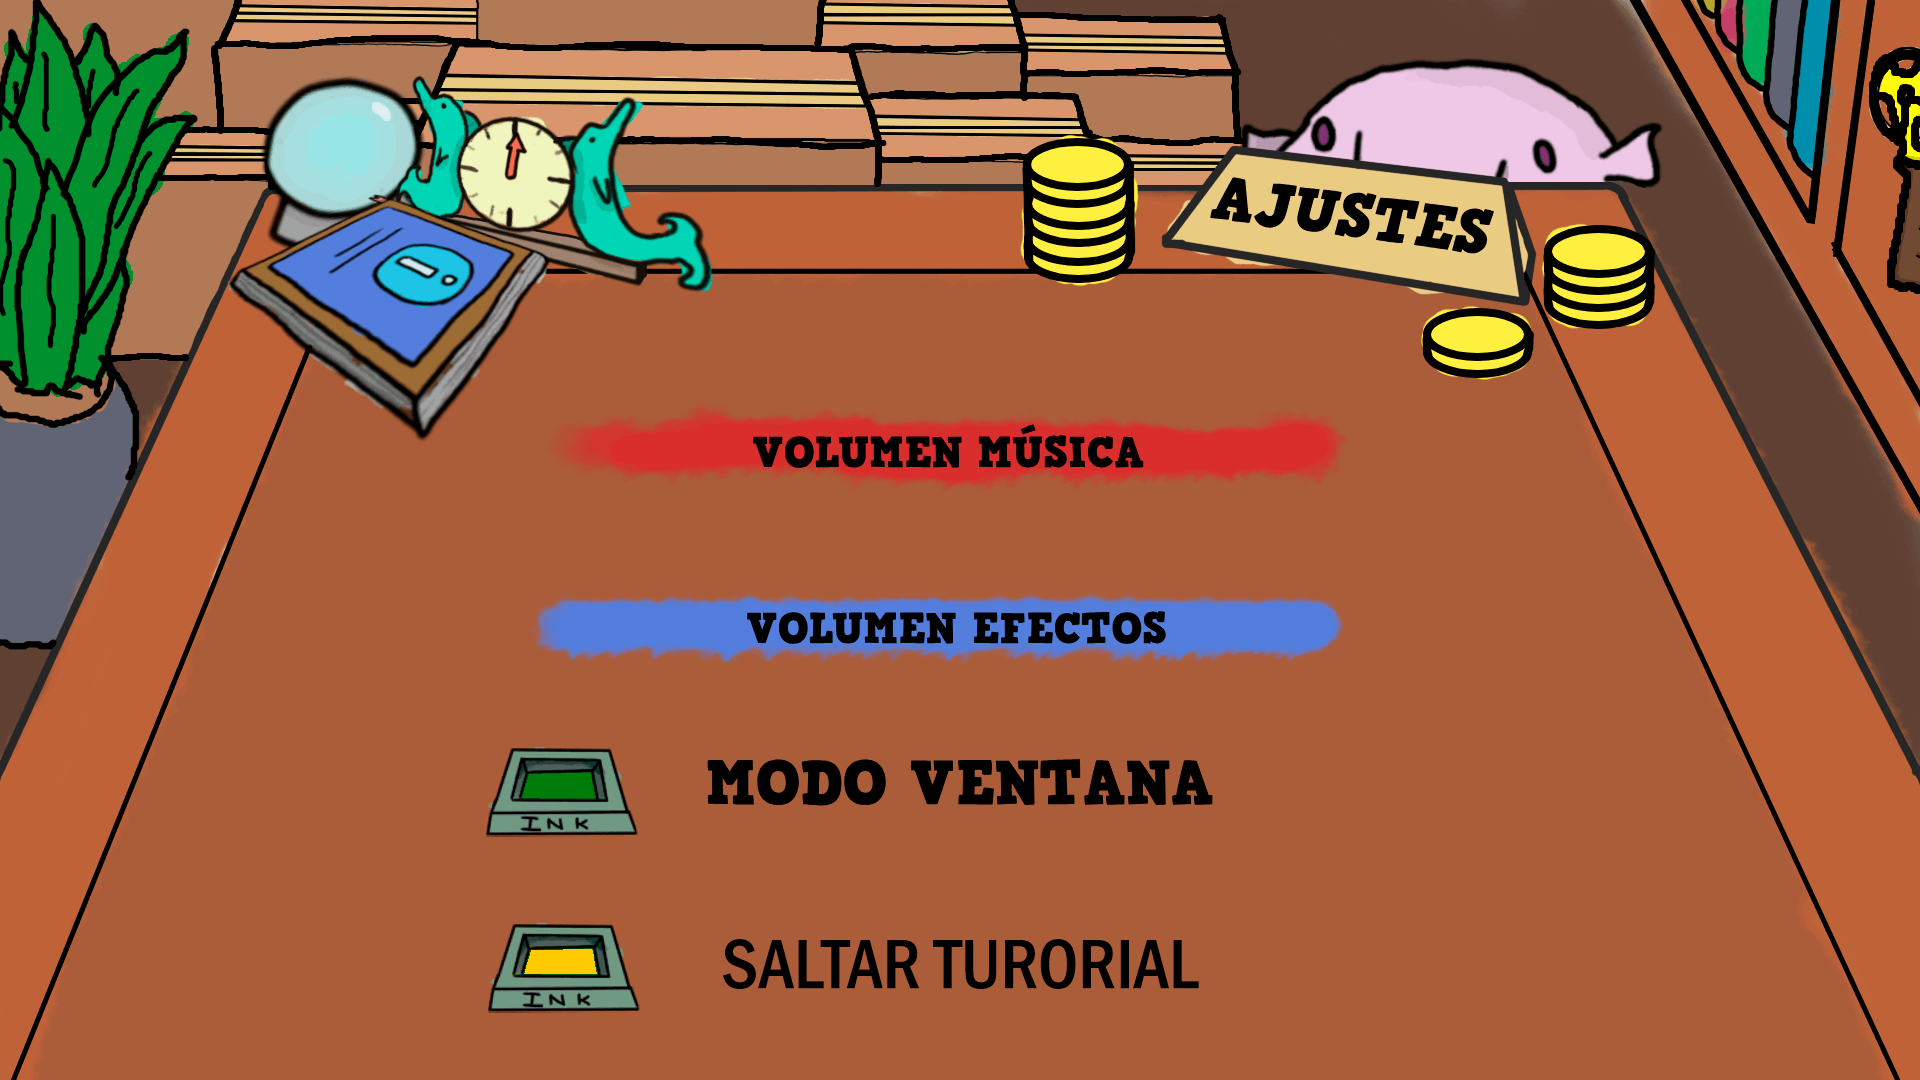
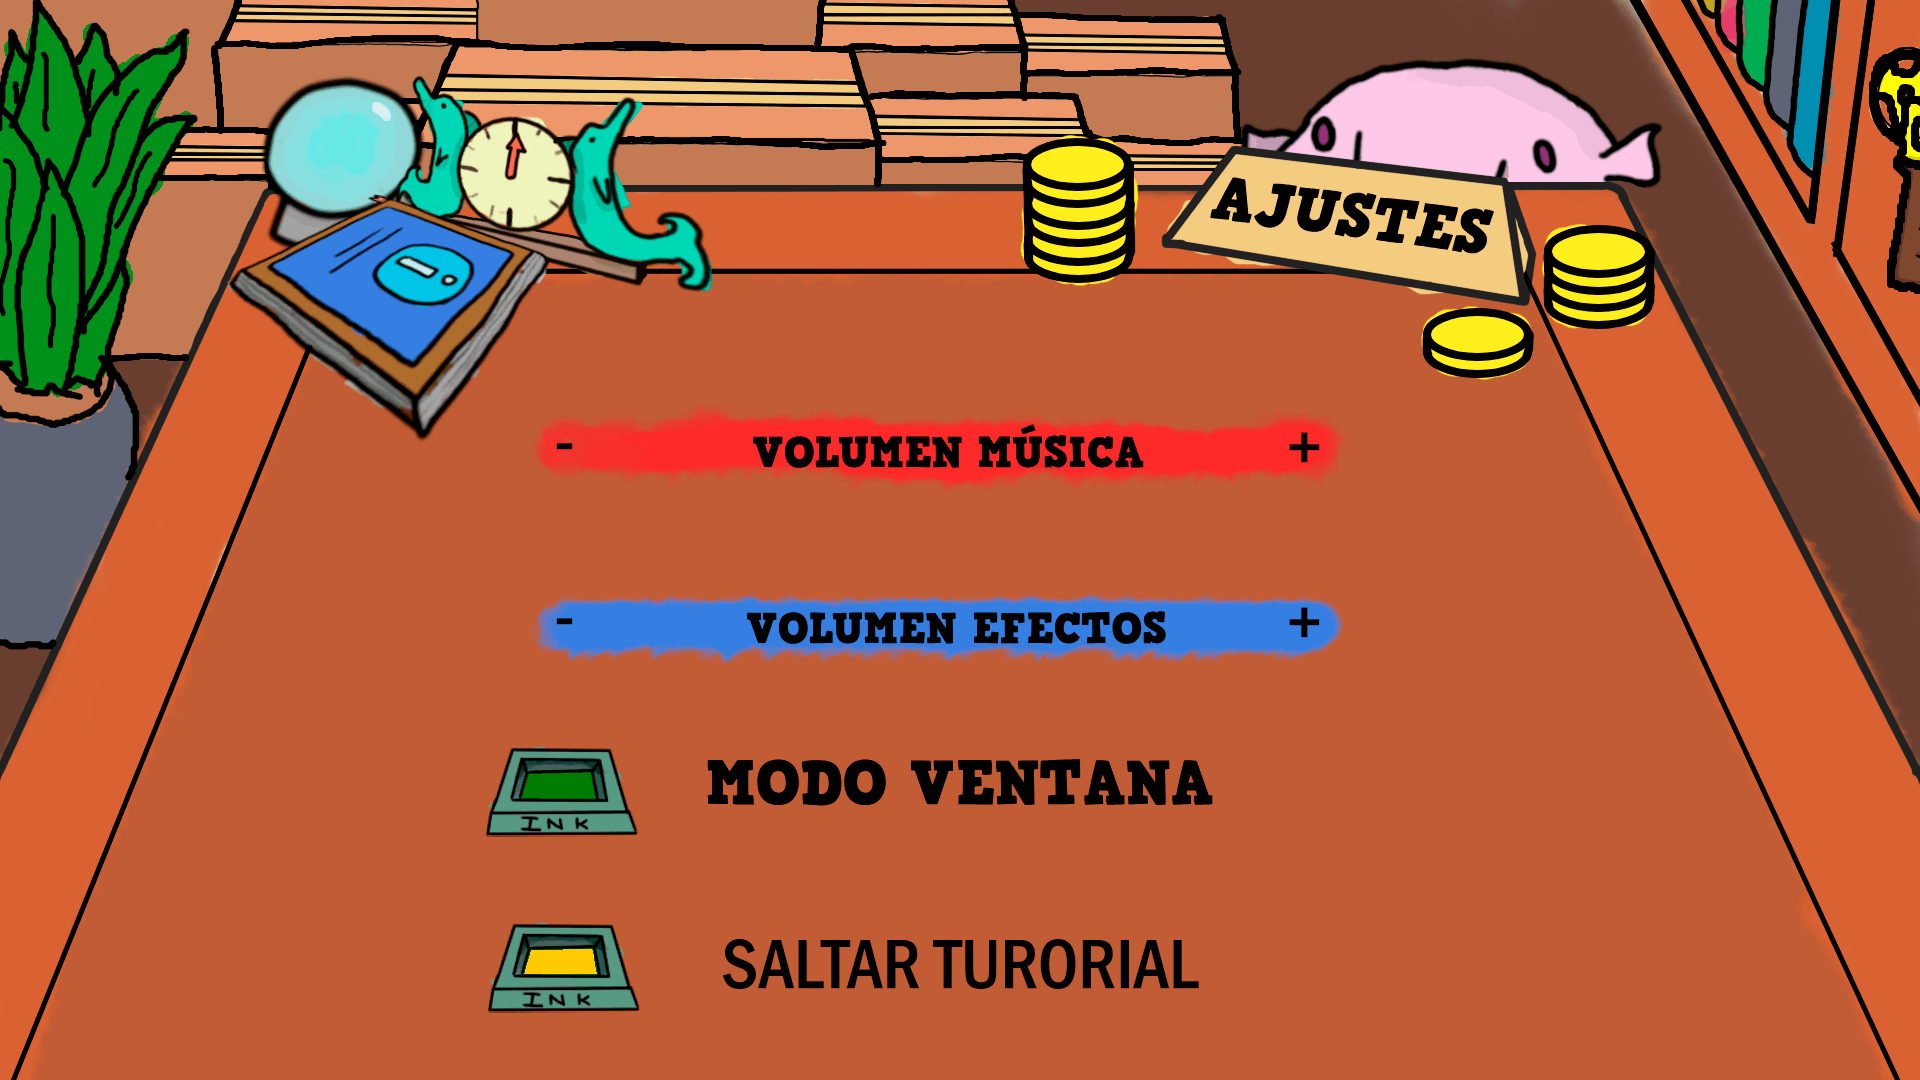
menú de ajustes hecho

diff --git a/FuMonoStudios/Game/src/scenes/ConfigScene.cpp b/FuMonoStudios/Game/src/scenes/ConfigScene.cpp
@@ -13,10 +13,6 @@
 #include <sistemas/ComonObjectsFactory.h>
 #include <architecture/GameConstants.h>
 
-//ecs::MainMenu::MainMenu()
-//{
-//	init();
-//}
 
 ecs::ConfigScene::ConfigScene() : Scene() {
 
@@ -41,114 +37,125 @@ void ecs::ConfigScene::init()
 		gm().requestChangeScene(ecs::sc::CONFIG_SCENE, ecs::sc::MENU_SCENE);
 
 	};
-	factory_->createTextuButton({ 600,300 }, "Pulsa para volver al menu", 50,funcPress, "click");
+	auto back = factory_->createTextuButton({ 600,300 }, "Pulsa para volver al menu", 50, funcPress, "click");
+	factory_->addHilghtOnHover(back);
+	factory_->addHoverColorMod(back);
+
+	musicIconTexture_ = &sdlutils().images().at("iconoRojoAjustes");
+	musicIconEnt_ = addEntity();
+	sfxIconTexture_ = &sdlutils().images().at("iconoAzulAjustes");
+	sfxIconEnt_ = addEntity();
+
+	screenModeIconTexture_ = &sdlutils().images().at("iconoVerdeAjustes");
+	screenModeIconEnt_ = addEntity();
+	skipTutoIconTexture_ = &sdlutils().images().at("iconoAmarilloAjustes");
+	skipTutoIconEnt_ = addEntity();
 
 
-	//Luis: esto que sea place holder hay que poner imagen
 
-
-	// Parametro de audio
-	musicValueTexture_ = new Texture(sdlutils().renderer(), std::to_string(gD().getParamMusic()), sdlutils().fonts().at("arial50"), build_sdlcolor(0x000000ff));
-	musicValueEnt_ = addEntity();
-	Transform* transformAudioValue = musicValueEnt_->addComponent<Transform>(500, 600, musicValueTexture_->width(), musicValueTexture_->height());
-	RenderImage* renderAudioValue = musicValueEnt_->addComponent<RenderImage>(musicValueTexture_);
+	// Parametro de audio musica
+	Transform* trMusicIcon = musicIconEnt_->addComponent<Transform>(540, 370, musicIconTexture_->width(), musicIconTexture_->height());
+	musicIconEnt_->getComponent<Transform>()->setPos(540 + (gD().getParamMusic()*7.4f), 370);
+	RenderImage* rdrMusicIcon = musicIconEnt_->addComponent<RenderImage>(musicIconTexture_);
 	
 	// Boton (-) para el parametro de audio musica
 	CallbackClickeable funcPress2 = [this]() {
 		gD().changeParamID(0, false);
-		//updateValue(audioValueTexture_, audioValueEnt_, 1);
-		if (musicValueTexture_ != nullptr)
-		{
-			delete musicValueTexture_;
-			musicValueTexture_ = nullptr;
-		}
-
-		musicValueTexture_ = new Texture(sdlutils().renderer(), std::to_string(gD().getParamMusic()), sdlutils().fonts().at("arial50"), build_sdlcolor(0x000000ff));
-		musicValueEnt_->getComponent<RenderImage>()->setTexture(musicValueTexture_);
+		musicIconEnt_->getComponent<Transform>()->setPos(540 + (gD().getParamMusic() * 7.4f), 370);
 	};
-	factory_->createTextuButton({ 540,420 }, "(-)", 50, funcPress2, "click");
+	factory_->createTextuButton({ 540,420 }, "    ", 50, funcPress2, "click");
 
 	// Boton (+) para el parametro de audio musica
 	CallbackClickeable funcPress3 = [this]() {
 		gD().changeParamID(0, true);
-		//updateValue(audioValueTexture_, audioValueEnt_, 1);
-		if (musicValueTexture_ != nullptr)
-		{
-			delete musicValueTexture_;
-			musicValueTexture_ = nullptr;
-		}
-
-		musicValueTexture_ = new Texture(sdlutils().renderer(), std::to_string(gD().getParamMusic()), sdlutils().fonts().at("arial50"), build_sdlcolor(0x000000ff));
-		musicValueEnt_->getComponent<RenderImage>()->setTexture(musicValueTexture_);
+		musicIconEnt_->getComponent<Transform>()->setPos(540 + (gD().getParamMusic() * 7.4f), 370);
 	};
-	factory_->createTextuButton({ 1280,420 }, "(+)", 50, funcPress3, "click");
+	factory_->createTextuButton({ 1280,420 }, "    ", 50, funcPress3, "click");
 
 
+
+	// Parametro de audio sfx
+	Transform* trSfxIcon = sfxIconEnt_->addComponent<Transform>(540, 540, sfxIconTexture_->width(), sfxIconTexture_->height());
+	sfxIconEnt_->getComponent<Transform>()->setPos(540 + (gD().getParamSfx() * 7.4f), 540);
+	RenderImage* rdrSfxIcon = sfxIconEnt_->addComponent<RenderImage>(sfxIconTexture_);
 
 	// Boton (-) para el parametro de audio sfx
 	CallbackClickeable funcPress4 = [this]() {
 		gD().changeParamID(1, false);
-		//updateValue(audioValueTexture_, audioValueEnt_, 1);
-		if (musicValueTexture_ != nullptr)
-		{
-			delete musicValueTexture_;
-			musicValueTexture_ = nullptr;
-		}
-
-		musicValueTexture_ = new Texture(sdlutils().renderer(), std::to_string(gD().getParamSfx()), sdlutils().fonts().at("arial50"), build_sdlcolor(0x000000ff));
-		musicValueEnt_->getComponent<RenderImage>()->setTexture(musicValueTexture_);
+		sfxIconEnt_->getComponent<Transform>()->setPos(540 + (gD().getParamSfx() * 7.4f), 540);
 	};
-	factory_->createTextuButton({ 540,590 }, "(-)", 50, funcPress4, "click");
+	factory_->createTextuButton({ 540,590 }, "    ", 50, funcPress4, "click");
 
 	// Boton (+) para el parametro de audio sfx
 	CallbackClickeable funcPress5 = [this]() {
 		gD().changeParamID(1, true);
-		//updateValue(audioValueTexture_, audioValueEnt_, 1);
-		if (musicValueTexture_ != nullptr)
-		{
-			delete musicValueTexture_;
-			musicValueTexture_ = nullptr;
-		}
-
-		musicValueTexture_ = new Texture(sdlutils().renderer(), std::to_string(gD().getParamSfx()), sdlutils().fonts().at("arial50"), build_sdlcolor(0x000000ff));
-		musicValueEnt_->getComponent<RenderImage>()->setTexture(musicValueTexture_);
+		sfxIconEnt_->getComponent<Transform>()->setPos(540 + (gD().getParamSfx() * 7.4f), 540);
 	};
-	factory_->createTextuButton({ 1280,590 }, "(+)", 50, funcPress5, "click");
+	factory_->createTextuButton({ 1280,590 }, "    ", 50, funcPress5, "click");
 
 
 
-	if (gD().GetValueSkipTutorial())
-		skipTutorialValueTexture_ = new Texture(sdlutils().renderer(), "SALTAR", sdlutils().fonts().at("arial50"), build_sdlcolor(0x000000ff));
-	else
-		skipTutorialValueTexture_ = new Texture(sdlutils().renderer(), "NO SALTAR", sdlutils().fonts().at("arial50"), build_sdlcolor(0x000000ff));
 
-	skipTutorialValueEnt_ = addEntity();
-	Transform* trSkipValue = skipTutorialValueEnt_->addComponent<Transform>(515, 800, skipTutorialValueTexture_->width(), skipTutorialValueTexture_->height());
-	RenderImage* rdrSkipValue = skipTutorialValueEnt_->addComponent<RenderImage>(skipTutorialValueTexture_);
 
+
+
+
+
+
+
+
+
+
+
+
+
+
+
+
+
+
+
+	// Boton cambio de activar o no salto del tutorial
+	Transform* trSkipIcon = skipTutoIconEnt_->addComponent<Transform>(515, 860, 95, 122);
+	RenderImage* rdrSkipIcon = skipTutoIconEnt_->addComponent<RenderImage>(skipTutoIconTexture_);
+
+	if (!gD().GetValueSkipTutorial()) {
+		skipTutoIconEnt_->getComponent<RenderImage>()->setTexture(
+			new Texture(sdlutils().renderer(), "           ", sdlutils().fonts().at("arial50"), build_sdlcolor(0x000000ff)));
+	}
 
 	// Boton para configurar el salto del tutorial o no
 	CallbackClickeable funcPressSkipTutorial = [this]() {
 		gD().ToggleSkipTutorial();
 		
-		if (skipTutorialValueTexture_ != nullptr)
-		{
-			delete skipTutorialValueTexture_;
-			skipTutorialValueTexture_ = nullptr;
+		if (!gD().GetValueSkipTutorial()) {
+			skipTutoIconEnt_->getComponent<RenderImage>()->setTexture(
+				new Texture(sdlutils().renderer(), "           ", sdlutils().fonts().at("arial50"), build_sdlcolor(0x000000ff)));
 		}
-
-		if (gD().GetValueSkipTutorial())
-			skipTutorialValueTexture_ = new Texture(sdlutils().renderer(), "SALTAR", sdlutils().fonts().at("arial50"), build_sdlcolor(0x000000ff));
-		else
-			skipTutorialValueTexture_ = new Texture(sdlutils().renderer(), "NO SALTAR", sdlutils().fonts().at("arial50"), build_sdlcolor(0x000000ff));
-		skipTutorialValueEnt_->getComponent<RenderImage>()->setTexture(skipTutorialValueTexture_);
+		else skipTutoIconEnt_->getComponent<RenderImage>()->setTexture(skipTutoIconTexture_);
 	};
 
 	factory_->createTextuButton({ 480,940 }, "           ", 50, funcPressSkipTutorial, "click");
 
+
+
 	// Boton cambio de pantalla
+	Transform* trScreenIcon = screenModeIconEnt_->addComponent<Transform>(515, 685, 95, 122);
+	RenderImage* rdrScreenIcon = screenModeIconEnt_->addComponent<RenderImage>(screenModeIconTexture_);
+
+	if (!gD().GetValueFullScreen()) {
+		screenModeIconEnt_->getComponent<RenderImage>()->setTexture(
+			new Texture(sdlutils().renderer(), "           ", sdlutils().fonts().at("arial50"), build_sdlcolor(0x000000ff)));
+	}
+
 	CallbackClickeable funcScreenModeBoton = [this]() {
 		sdlutils().toggleFullScreen();
+		gD().ToggleFullScreen();
+		if (!gD().GetValueFullScreen()) {
+			screenModeIconEnt_->getComponent<RenderImage>()->setTexture(
+				new Texture(sdlutils().renderer(), "           ", sdlutils().fonts().at("arial50"), build_sdlcolor(0x000000ff)));
+		}
+		else screenModeIconEnt_->getComponent<RenderImage>()->setTexture(screenModeIconTexture_);
 	};
 	factory_->createTextuButton({ 480,760 }, "           ", 50, funcScreenModeBoton, "click");
 }

diff --git a/FuMonoStudios/Game/src/architecture/GeneralData.cpp b/FuMonoStudios/Game/src/architecture/GeneralData.cpp
@@ -27,10 +27,11 @@ GeneralData::GeneralData()
 	numTubos_ = INITIAL_TUBE_AMOUNT;
 	//upgrades_.resize(ecs::upg::_LAST_UPGRADE);
 	upgrades_.reset();
-	paramVolMusic_ = 0;
+	paramVolMusic_ = 50;
 	paramVolSfx_ = 50;
 
 	skipTutorial_ = false;
+	fullScreen_ = true;
 	//upgrades_[ecs::upg::MONEY_UPGRADE] = true;
 
 	/*if (upgrades_[ecs::upg::MONEY_UPGRADE]) {
@@ -45,6 +46,7 @@ GeneralData::GeneralData()
 #ifdef _DEBUG
 	std::cout << "Volumen SFX: " << paramVolSfx_ << std::endl;
 #endif // _DEBUG
+	soundEmiter().setMusicVolume(paramVolMusic_);
 	soundEmiter().setSoundVolumes(paramVolSfx_);
 	//readNPCData();
 }
@@ -342,6 +344,9 @@ void GeneralData::changeParamID(int i, bool suma) {
 			}
 		}
 	}
+
+	soundEmiter().setSoundVolumes(paramVolSfx_);
+	soundEmiter().setMusicVolume(paramVolMusic_);
 #ifdef _DEBUG
 	std::cout << "El valor de la musica ahora es " << paramVolMusic_ << " y el valor de los SFX ahora es " << paramVolSfx_ << std::endl;
 #endif // _DEBUG

diff --git a/FuMonoStudios/Game/src/architecture/GeneralData.h b/FuMonoStudios/Game/src/architecture/GeneralData.h
@@ -181,6 +181,14 @@ public:
 		return skipTutorial_;
 	}
 
+	void ToggleFullScreen() {
+		fullScreen_ = !fullScreen_;
+	}
+
+	bool GetValueFullScreen() {
+		return fullScreen_;
+	}
+
 	inline int getDay() { return dia_; }
 	inline void setDay(int dia) { dia_ = dia; updateDia(); }
 
@@ -295,6 +303,11 @@ private:
 	/// booleano que indica si se salta o no los tutoriales
 	/// </summary>
 	bool skipTutorial_;
+
+	/// <summary>
+	/// booleano que indica si esta el juego en pantalla completa o no
+	/// </summary>
+	bool fullScreen_;
 
 	// Si en verdad en cuanto desbloqueas un distrito que explorar, aparece el tubo correspondiente en la oficina,
 	// podemos hacer que la variable de numero de tubos y del numero de distritos desbloqueados sean una sola para simplificar todo

diff --git a/FuMonoStudios/Game/src/scenes/ConfigScene.h b/FuMonoStudios/Game/src/scenes/ConfigScene.h
@@ -11,11 +11,16 @@ namespace ecs {
         public Scene
     {
     private:
-        Texture* musicValueTexture_;
-        Entity* musicValueEnt_;
+        Texture* musicIconTexture_;
+        Entity* musicIconEnt_;
+        Texture* sfxIconTexture_;
+        Entity* sfxIconEnt_;
 
-        Texture* skipTutorialValueTexture_;
-        Entity* skipTutorialValueEnt_;
+        Texture* screenModeIconTexture_;
+        Entity* screenModeIconEnt_;
+        Texture* skipTutoIconTexture_;
+        Entity* skipTutoIconEnt_;
+
 
         //Texture* screenModeTexture_;
         //Entity* screenModeEnt_;
